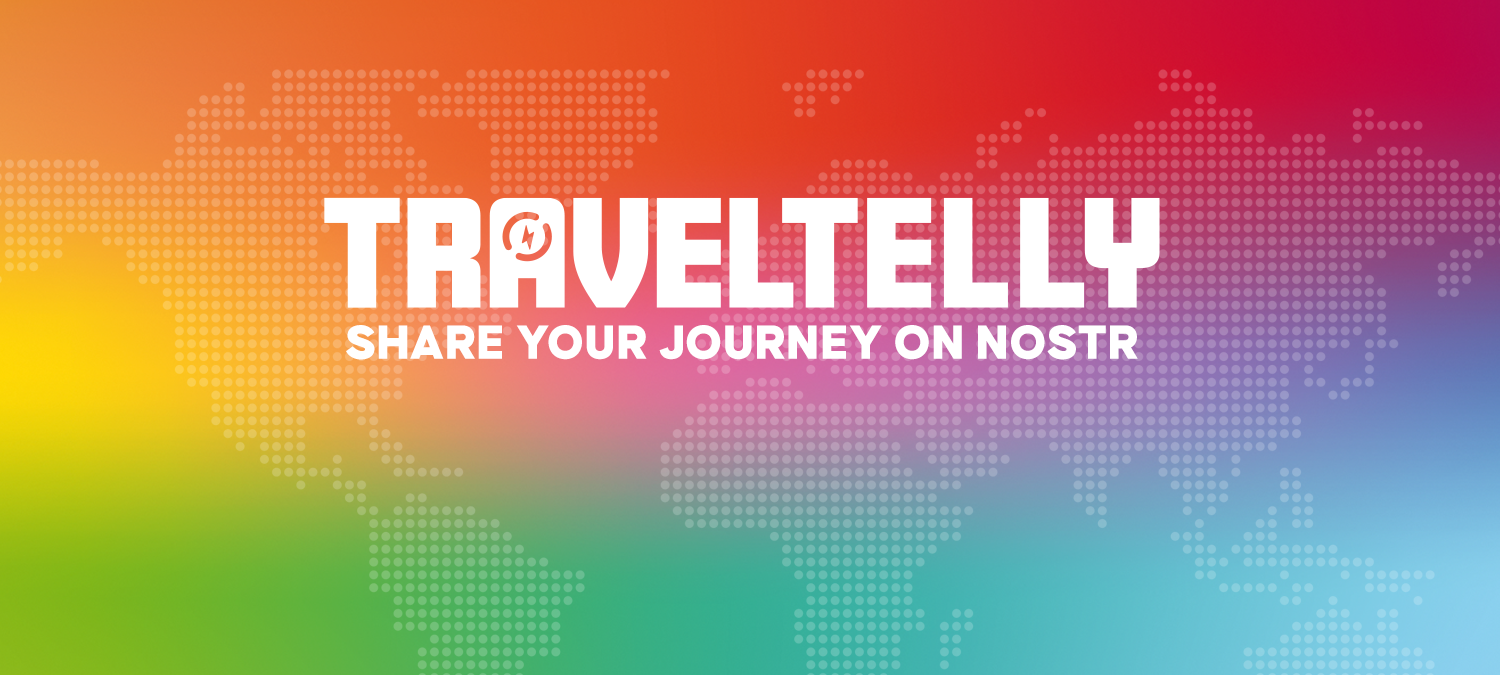
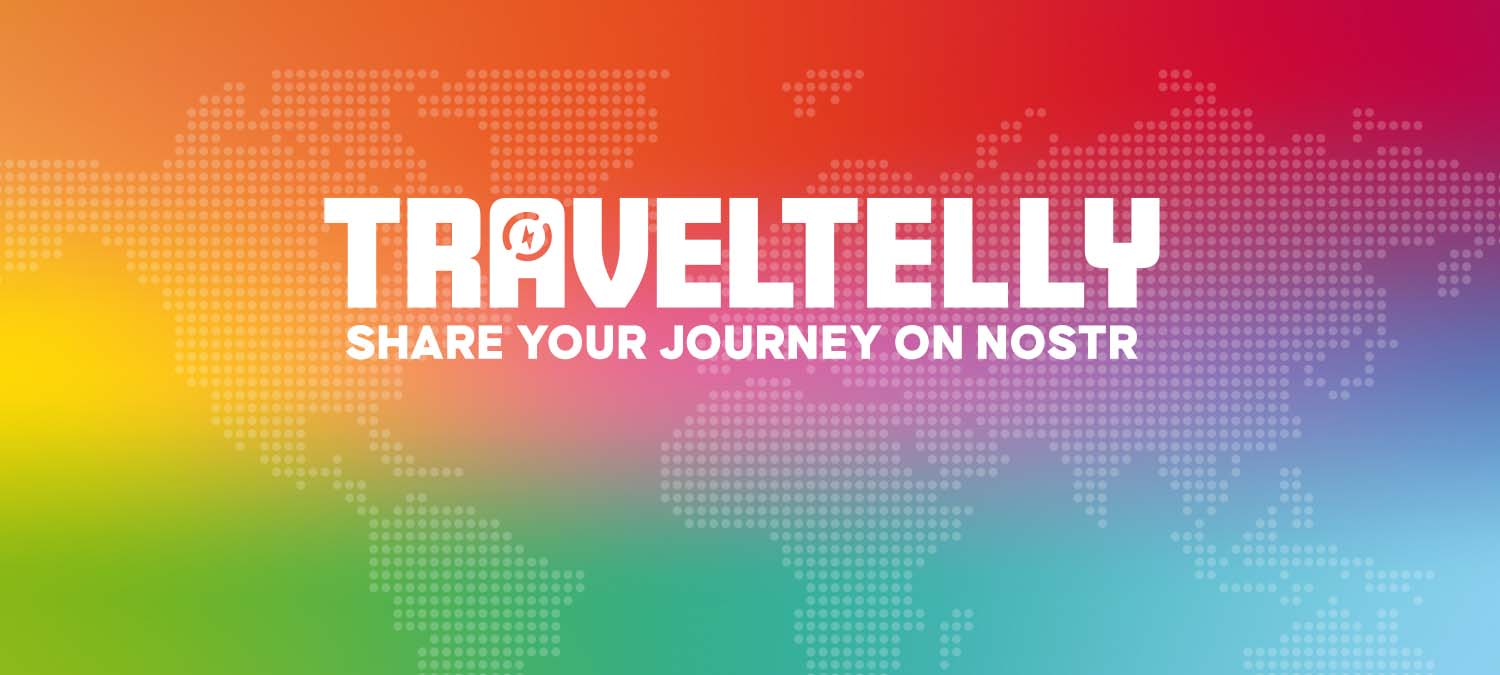
Replace OG image with optimized lower resolution version
- Updated og-image.jpg with optimized 66KB version (was 1MB)
- Added cache-busting parameter ?v=2026 to force refresh on social platforms
- Updated image dimensions to 1500x500 to match actual image size
- Better performance and faster loading for social media previews

Changed region(s): [[0.2147, 0.4978, 0.3373, 0.5289], [0.3373, 0.3111, 0.368, 0.3733], [0.4907, 0.4978, 0.5213, 0.5289]]

diff --git a/index.html b/index.html
@@ -28,9 +28,9 @@
     <meta property="og:url" content="https://www.traveltelly.com/">
     <meta property="og:title" content="TravelTelly - Nostr Powered Travel Community">
     <meta property="og:description" content="Share your experiences and discover amazing places on the Nostr network. Upload photos, rate locations, and earn Lightning tips.">
-    <meta property="og:image" content="https://www.traveltelly.com/og-image.jpg">
-    <meta property="og:image:width" content="1536">
-    <meta property="og:image:height" content="1024">
+    <meta property="og:image" content="https://www.traveltelly.com/og-image.jpg?v=2026">
+    <meta property="og:image:width" content="1500">
+    <meta property="og:image:height" content="500">
     <meta property="og:image:alt" content="TravelTelly - Share Your Journey on Nostr">
     
     <!-- Twitter -->
@@ -38,7 +38,7 @@
     <meta property="twitter:url" content="https://www.traveltelly.com/">
     <meta property="twitter:title" content="TravelTelly - Nostr Powered Travel Community">
     <meta property="twitter:description" content="Share your experiences and discover amazing places on the Nostr network. Upload photos, rate locations, and earn Lightning tips.">
-    <meta property="twitter:image" content="https://www.traveltelly.com/og-image.jpg">
+    <meta property="twitter:image" content="https://www.traveltelly.com/og-image.jpg?v=2026">
     <meta http-equiv="content-security-policy" content="default-src 'none'; script-src 'self' 'unsafe-inline' 'unsafe-eval'; style-src 'self' 'unsafe-inline'; frame-src 'self' https:; font-src 'self'; base-uri 'self'; manifest-src 'self'; connect-src 'self' blob: https: wss:; img-src 'self' data: blob: https: *; media-src 'self' https: *">
     <link rel="manifest" href="/manifest.webmanifest">
   </head>
